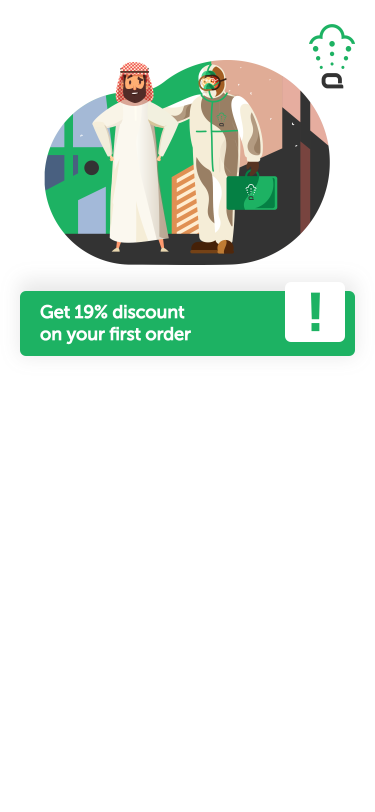
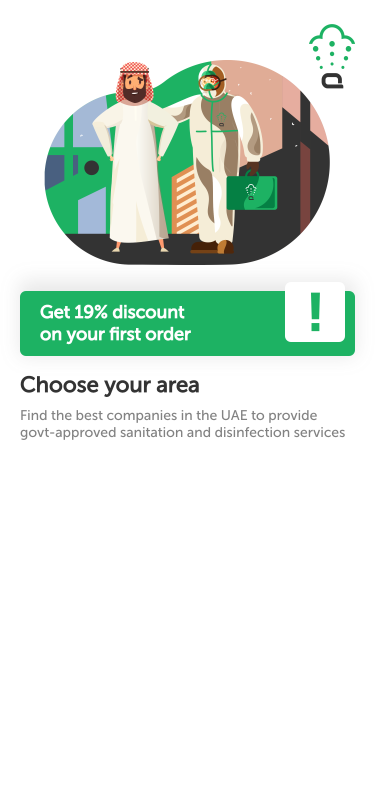
Added title widget

Changed region(s): [[0.0587, 0.4618, 0.9093, 0.5542]]

diff --git a/lib/widgets/title_widget.dart b/lib/widgets/title_widget.dart
@@ -1,0 +1,49 @@
+//
+//  lib/widgets/title_widget.dart
+//
+//  Created by Denis Bystruev on 25/04/2020.
+//
+
+import 'package:flutter/material.dart';
+import 'package:taaqeem/globals.dart' as globals;
+import 'package:taaqeem/widgets/text_widgets.dart';
+
+class TitleWidget extends StatelessWidget {
+  final double scale;
+  final String title;
+  final double titleSize;
+  final String subtitle;
+  final double subtitleSize;
+
+  TitleWidget(
+    this.title, {
+    this.scale,
+    this.titleSize,
+    this.subtitle,
+    this.subtitleSize,
+  });
+
+  @override
+  Widget build(BuildContext context) {
+    return Padding(
+      child: Column(
+        children: [
+          TheText.w600(
+            fontSize: titleSize,
+            text: title,
+            textScaleFactor: scale,
+          ),
+          SizedBox(height: 10 * scale),
+          TheText.normal(
+            color: globals.subtitleColor,
+            fontSize: subtitleSize,
+            text: subtitle,
+            textScaleFactor: scale,
+          ),
+        ],
+        crossAxisAlignment: CrossAxisAlignment.start,
+      ),
+      padding: EdgeInsets.symmetric(horizontal: 20 * scale),
+    );
+  }
+}

diff --git a/lib/screens/main_screen.dart b/lib/screens/main_screen.dart
@@ -9,6 +9,7 @@ import 'package:taaqeem/design/scale.dart';
 import 'package:taaqeem/models/plans.dart';
 import 'package:taaqeem/widgets/discount_widget.dart';
 import 'package:taaqeem/widgets/header_image_widget.dart';
+import 'package:taaqeem/widgets/title_widget.dart';
 
 class MainScreen extends StatefulWidget {
   final Plans plans;
@@ -42,6 +43,14 @@ class _MainScreenState extends State<MainScreen> with Scale {
                 width: 286,
               ),
               DiscountWidget('Get 19% discount\non your first order'),
+              TitleWidget(
+                'Choose your area',
+                scale: scale,
+                subtitle:
+                    'Find the best companies in the UAE to provide govt-approved sanitation and disinfection services',
+                titleSize: 22,
+                subtitleSize: 14,
+              ),
             ],
             padding: const EdgeInsets.only(),
           ),

diff --git a/lib/globals.dart b/lib/globals.dart
@@ -39,5 +39,6 @@ const Color shadowColor = Color.fromRGBO(99, 99, 99, 0.15);
 const statusError = 'ERROR';
 const statusSuccess = 'SUCCESS';
 
-// Default text color
+// Default text colors
+const Color subtitleColor = Color(0xFF828282);
 const Color textColor = Color(0xFF333333);
